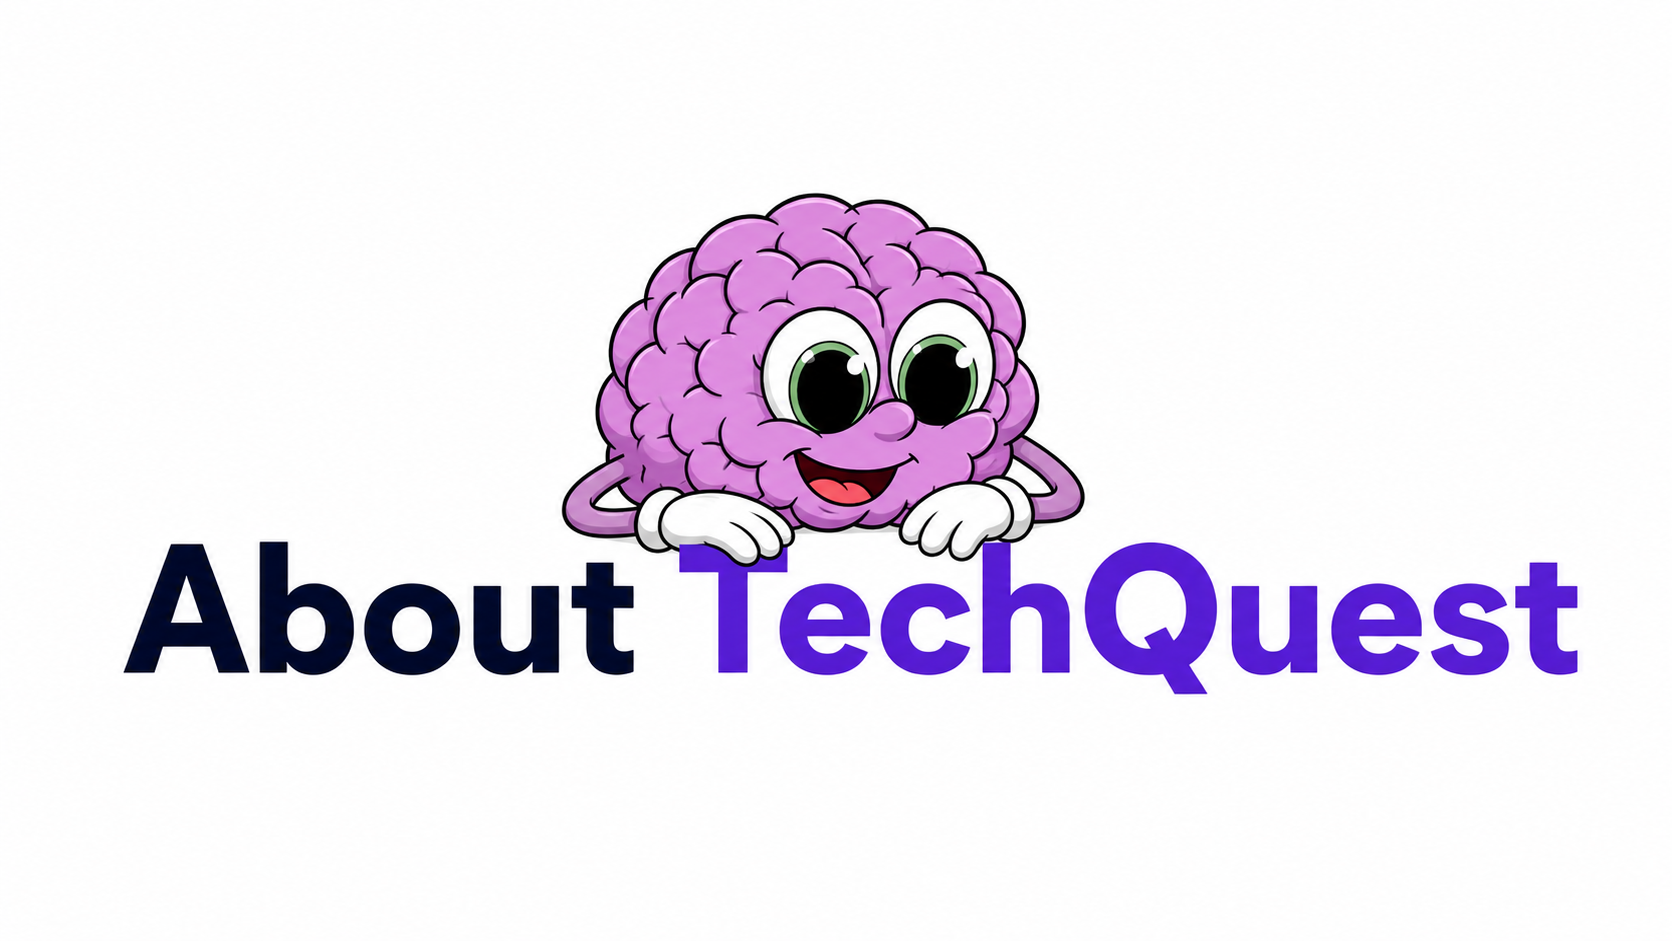
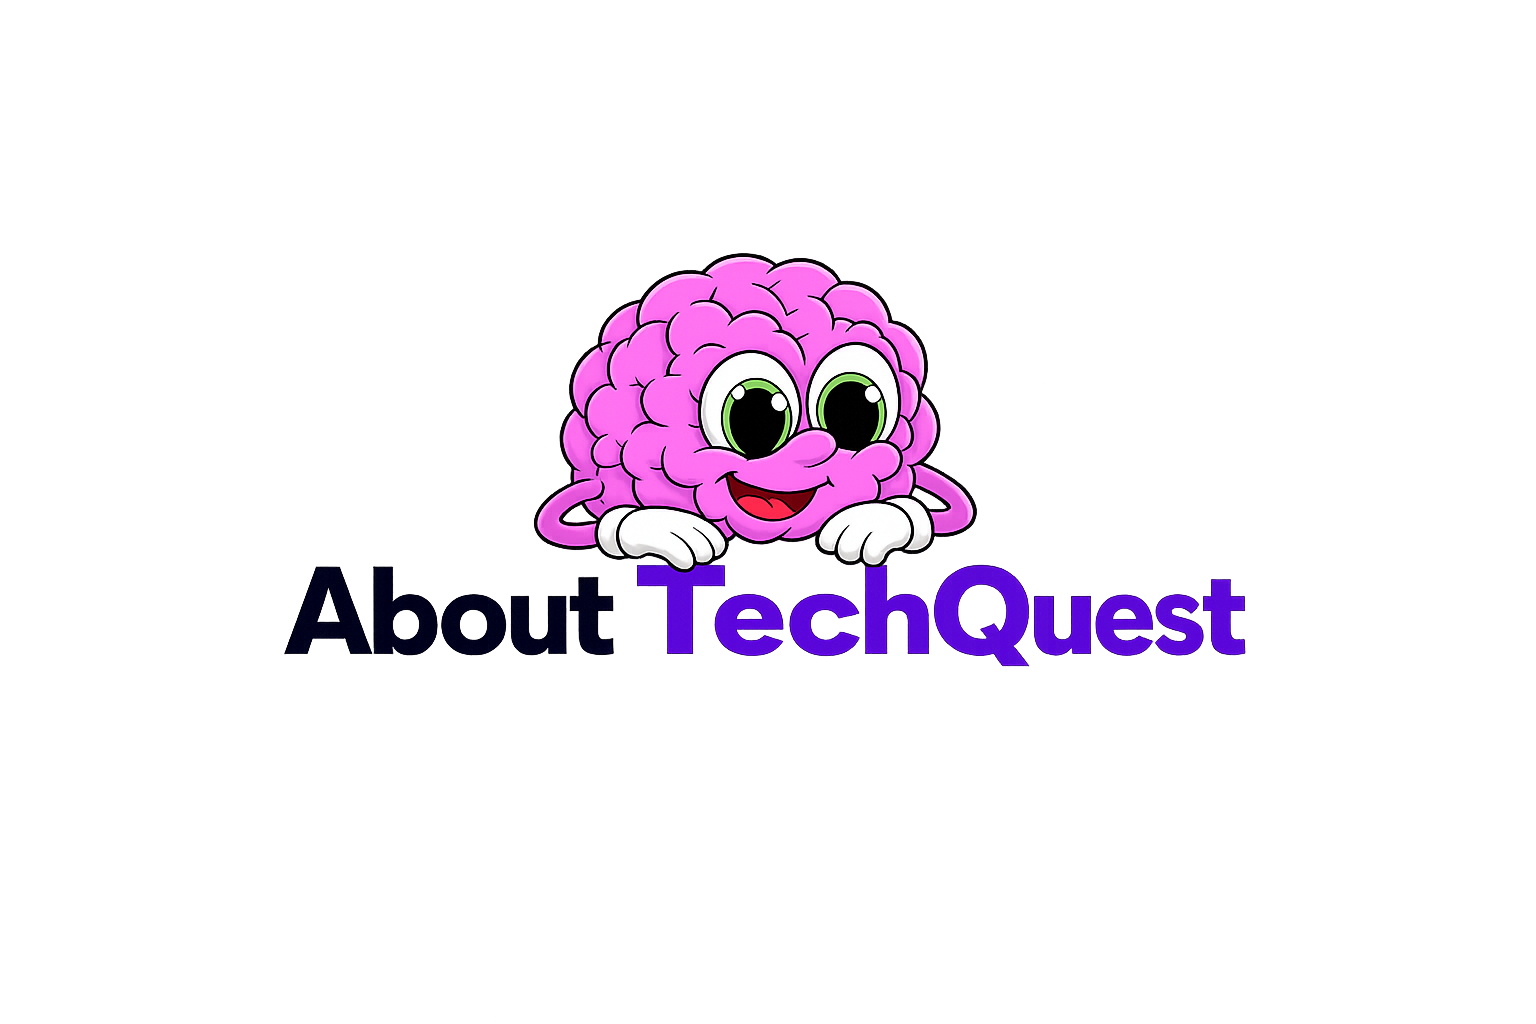
layout changed

Changed region(s): [[0.0625, 0.1849, 0.9688, 0.7396]]

diff --git a/client/src/components/StoryCard.jsx b/client/src/components/StoryCard.jsx
@@ -3,43 +3,43 @@ import { useNavigate } from "react-router-dom";
 function StoryCard({ story }) {
   const navigate = useNavigate();
 
-function openStory() {
-    console.log("Clicked story:", story);
-
+  function openStory() {
     navigate("/story", {
       state: { story },
     });
-}
+  }
 
   return (
     <article
       onClick={openStory}
-      className="bg-white rounded-3xl overflow-hidden shadow-md hover:shadow-xl transition-all duration-300 cursor-pointer hover:-translate-y-1"
+      className="bg-white rounded-3xl overflow-hidden shadow-md hover:shadow-xl transition-all duration-300 cursor-pointer hover:-translate-y-1 flex flex-col md:flex-row"
     >
+      {/* Image */}
       <img
         src={story.image}
         alt={story.title}
-        className="w-full h-52 object-cover"
+        className="w-full md:w-[48%] h-72 md:h-auto object-cover"
       />
 
-      <div className="p-6">
-        <div className="flex justify-between items-center mb-3 text-sm text-gray-500">
-          <span>{story.source}</span>
-          <span>{story.readTime} min read</span>
+      {/* Content */}
+      <div className="flex flex-col justify-between p-8 md:w-[52%]">
+        <div>
+          <div className="flex justify-between items-center text-sm text-gray-500 mb-4">
+            <span>{story.source}</span>
+            <span>{story.readTime} min read</span>
+          </div>
+
+          <h2 className="text-3xl font-bold leading-tight line-clamp-3">
+            {story.title}
+          </h2>
+
+          <p className="mt-5 text-lg text-gray-600 line-clamp-4">
+            {story.summary}
+          </p>
         </div>
 
-        <h2 className="text-xl font-bold line-clamp-2">
-          {story.title}
-        </h2>
-
-        <p className="mt-3 text-gray-600 line-clamp-3">
-          {story.summary}
-        </p>
-
-        <button
-          className="mt-6 text-purple-600 font-semibold hover:underline"
-        >
-          Open Brief →
+        <button className="mt-8 w-fit rounded-full bg-purple-600 px-6 py-3 text-white font-semibold hover:bg-purple-700 transition">
+          Open Today's Brief →
         </button>
       </div>
     </article>

diff --git a/client/src/pages/About.jsx b/client/src/pages/About.jsx
@@ -17,7 +17,7 @@ export default function About() {
             className="mx-auto w-full max-w-4xl"
           />
 
-          <p className="mt-10 text-xl leading-9 text-slate-600">
+          <p className="mt-10 text-xl leading-9 text-slate-800">
             TechQuest is built for curious students and young professionals
             who want to stay ahead in technology, careers and innovation—
             without spending hours scrolling through dozens of news websites.
@@ -38,7 +38,7 @@ export default function About() {
               Learn
             </h2>
 
-            <p className="mt-4 leading-7 text-slate-600">
+            <p className="mt-4 leading-7 text-slate-800">
               Discover breakthroughs in AI, technology,
               universities and research that actually matter.
             </p>
@@ -55,7 +55,7 @@ export default function About() {
               Grow
             </h2>
 
-            <p className="mt-4 leading-7 text-slate-600">
+            <p className="mt-4 leading-7 text-slate-800">
               Stay updated with internships,
               graduate programmes,
               scholarships and career opportunities.
@@ -73,7 +73,7 @@ export default function About() {
               Explore
             </h2>
 
-            <p className="mt-4 leading-7 text-slate-600">
+            <p className="mt-4 leading-7 text-slate-800">
               We filter out the noise so you can focus on the
               stories that help you build your future.
             </p>
@@ -89,7 +89,7 @@ export default function About() {
             Stay Curious. Keep Exploring.
           </h2>
 
-          <p className="mt-5 text-lg text-slate-500">
+          <p className="mt-5 text-lg text-slate-700">
             Every great career starts with curiosity.
           </p>
 

diff --git a/client/src/components/StoryGrid.jsx b/client/src/components/StoryGrid.jsx
@@ -2,7 +2,7 @@ import StoryCard from "./StoryCard"
 
 export default function StoryGrid({ stories }) {
   return (
-    <div className="grid grid-cols-1 lg:grid-cols-2 gap-10">
+    <div className="max-w-7xl mx-auto px-8 mt-10 grid grid-cols-1 lg:grid-cols-2 gap-8">
       {stories.map((story, index) => (
         <StoryCard
           key={story.url || index}